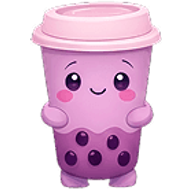
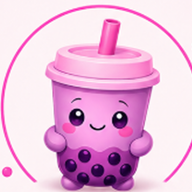
поменял иконки

diff --git a/src/app/layout.tsx b/src/app/layout.tsx
@@ -16,7 +16,7 @@ export default function RootLayout({ children }: { children: React.ReactNode }) 
         {/* ❗ ПОДКЛЮЧАЕМ PWA (ЯРЛЫК НА РАБОЧИЙ СТОЛ) ❗ */}
         <link rel="manifest" href="/manifest.json" />
         <meta name="theme-color" content="#FF008C" />
-        <link rel="apple-touch-icon" href="/icons/icon-192.png" />
+        <link rel="apple-touch-icon" href="/images/icon-192.png" />
       </head>
       <body className="antialiased bg-white text-black" suppressHydrationWarning>
 